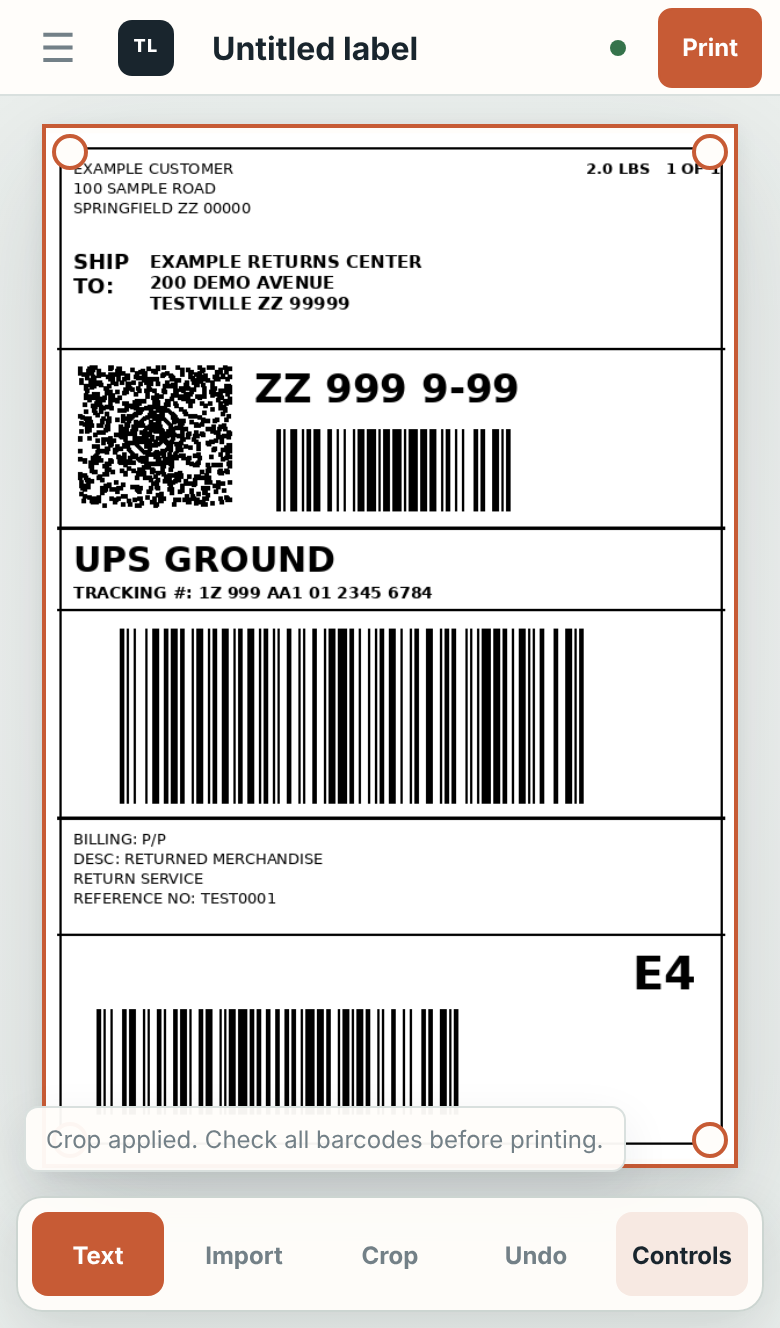
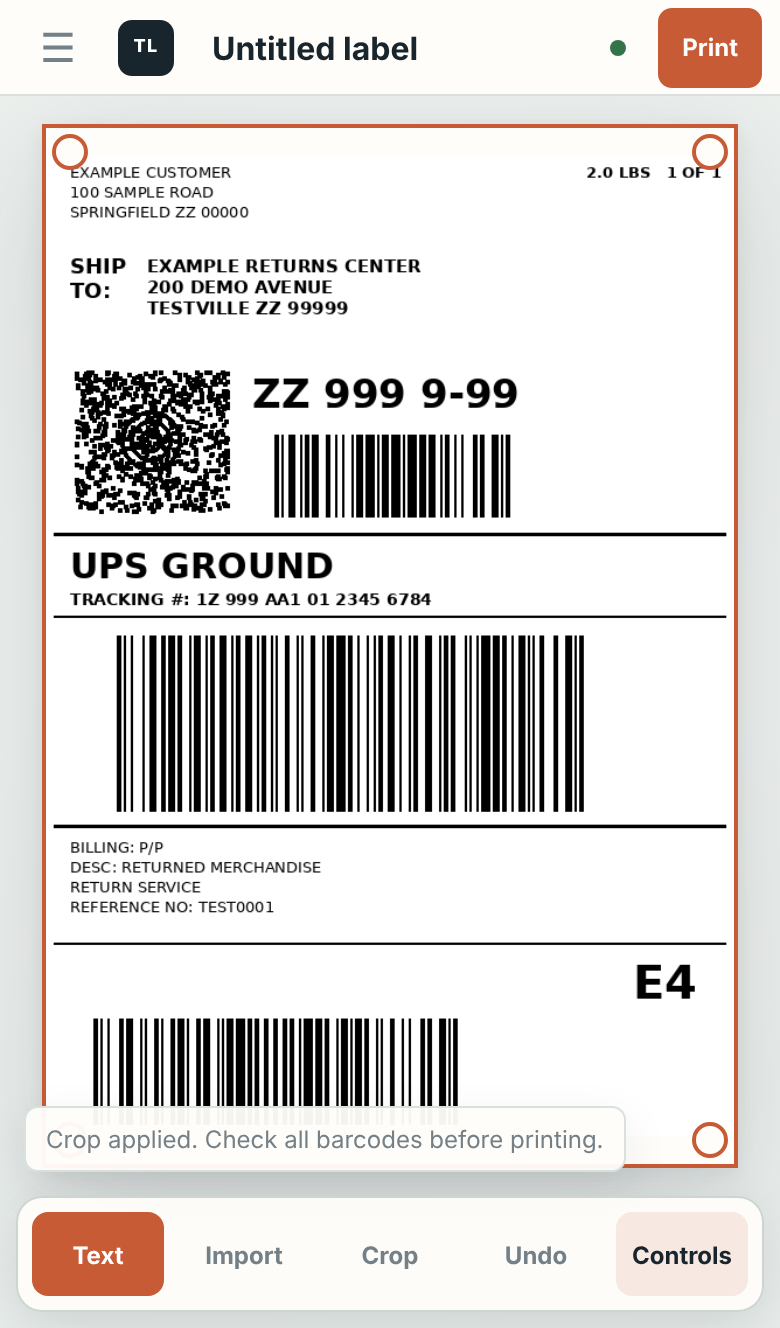
Keep everything inside a dashed cut box, address block included
On a real Amazon return page the label's address block sits apart from
its bar codes in white space, so growing from the bar codes dropped it.
When cut lines fence the label above and below, the label is now all the
ink inside the cut box. Dashed columns are measured within the label's
band, since a cut box's sides are shorter than half the page, and cut
lines plus their soft edges are left out of the crop. The synthetic page
now matches that layout: gray dashes on four sides, no outer border.

Claude-Session: https://claude.ai/code/session_014QzqeFLQdzRTgwbf3G2Hwv

Changed region(s): [[0.0615, 0.1235, 0.9538, 0.8336], [0.8, 0.7101, 0.8923, 0.7718], [0.7385, 0.1235, 0.8308, 0.1544]]

diff --git a/apps/web/src/lib/labelCrop.ts b/apps/web/src/lib/labelCrop.ts
@@ -29,10 +29,12 @@ const INK = 160;
  *
  * Shipping labels are the part of a page that holds bar codes, so the search
  * starts from the bar codes a decoder found. Return pages often fence the label
- * with dashed cut lines; those split the page into regions and the label is the
- * region holding the most bar code area. Inside that region the label is the
- * connected block of ink around the bar codes, which skips white margins and
- * text that sits apart from it. The decoder reports which way each bar code
+ * with a dashed cut box: dashed rows split the page into bands, the label's band
+ * is the one holding the most bar code area, and dashed columns inside that band
+ * close the box. A label fenced by cut lines is everything inside them, because
+ * its address block can sit apart from the bar codes in white space. Without cut
+ * lines the label is the connected block of ink around the bar codes, which
+ * skips white margins and text that sits apart from it. The decoder reports which way each bar code
  * reads, and a label's bar codes read the same way as its text, so a weighted
  * vote gives the turn. Without that, a landscape box on a portrait 4x6 label
  * is most likely a quarter turn.
@@ -41,10 +43,18 @@ export function locateShippingLabel(gray: Uint8Array, width: number, height: num
   const linear = hits.filter(hit => hit.linear && hit.box.right > hit.box.left && hit.box.bottom > hit.box.top);
   if (!linear.length || width < 8 || height < 8) return null;
   const rows = findDashedLines(gray, width, height, "rows");
-  const columns = findDashedLines(gray, width, height, "columns");
-  const region = bestRegion(splits(rows, height), splits(columns, width), linear);
+  const band = bestRegion(splits(rows, height), [[0, width]], linear);
+  // Cut boxes have short sides, so dashed columns are measured within the band.
+  const columns = findDashedLines(gray, width, height, "columns", band);
+  const region = bestRegion([[band.top, band.bottom]], splits(columns, width), linear);
   const anchors = linear.filter(hit => inside(center(hit.box), region));
-  const block = inkBlock(gray, width, height, region, anchors, new Set(rows), new Set(columns));
+  // Cut lines are left out of the label, with a couple of pixels either side for their soft edges.
+  const widen = (lines: number[]) => new Set(lines.flatMap(line => [line - 2, line - 1, line, line + 1, line + 2]));
+  const skipRows = widen(rows), skipColumns = widen(columns);
+  const fenced = region.top > 0 && region.bottom < height;
+  const block = fenced
+    ? inkBounds(gray, width, cutSpan(gray, width, region), skipRows, skipColumns) ?? inkBlock(gray, width, height, region, anchors, skipRows, skipColumns)
+    : inkBlock(gray, width, height, region, anchors, skipRows, skipColumns);
   const margin = Math.max(2, Math.round(Math.max(width, height) * .006));
   const box = {
     left: Math.max(region.left, block.left - margin), top: Math.max(region.top, block.top - margin),
@@ -61,15 +71,20 @@ export function locateShippingLabel(gray: Uint8Array, width: number, height: num
 }
 
 /**
- * Rows (or columns) that form a thin dashed line across most of the page.
- * Text lines also break into many short runs, so a dashed line must also be
- * thin, with clear space on both sides, and its dashes must be short and even.
+ * Rows (or columns) that form a thin dashed line across most of the area
+ * (the whole page unless given). Text lines also break into many short runs,
+ * so a dashed line must also be thin, with clear space on both sides, and its
+ * dashes and gaps must be short and even. Returns page coordinates.
  */
-export function findDashedLines(gray: Uint8Array, width: number, height: number, axis: "rows" | "columns"): number[] {
-  const length = axis === "rows" ? width : height;
-  const count = axis === "rows" ? height : width;
-  const at = axis === "rows" ? (line: number, index: number) => gray[line * width + index]
-    : (line: number, index: number) => gray[index * width + line];
+export function findDashedLines(gray: Uint8Array, width: number, height: number, axis: "rows" | "columns",
+  area: PixelBox = { left: 0, top: 0, right: width, bottom: height }): number[] {
+  const rowsAxis = axis === "rows";
+  const length = rowsAxis ? area.right - area.left : area.bottom - area.top;
+  const count = rowsAxis ? area.bottom - area.top : area.right - area.left;
+  const offset = rowsAxis ? area.top : area.left;
+  if (length < 1 || count < 1) return [];
+  const at = rowsAxis ? (line: number, index: number) => gray[(area.top + line) * width + area.left + index]
+    : (line: number, index: number) => gray[(area.top + index) * width + area.left + line];
   const ink = new Int32Array(count);
   const dashed = new Uint8Array(count);
   for (let line = 0; line < count; line += 1) {
@@ -105,7 +120,7 @@ export function findDashedLines(gray: Uint8Array, width: number, height: number,
     const peak = Math.max(...ink.subarray(start, end + 1));
     const quiet = (line: number) => line < 0 || line >= count || ink[line] < peak * .2;
     if (end - start + 1 <= thin && quiet(before) && quiet(after)) {
-      for (let line = start; line <= end; line += 1) lines.push(line);
+      for (let line = start; line <= end; line += 1) lines.push(offset + line);
     }
     start = end + 1;
   }
@@ -139,6 +154,33 @@ function bestRegion(rows: Array<[number, number]>, columns: Array<[number, numbe
     if (area > bestArea) { best = region; bestArea = area; }
   }
   return best;
+}
+
+/** The left and right ends of the dashed rows just above and below a fenced region, as the area to search. */
+function cutSpan(gray: Uint8Array, width: number, region: PixelBox): PixelBox {
+  let left = region.right, right = region.left;
+  for (const y of [region.top - 1, region.bottom]) {
+    for (let x = region.left; x < region.right; x += 1) {
+      if (gray[y * width + x] < INK) { left = Math.min(left, x); right = Math.max(right, x + 1); }
+    }
+  }
+  return right > left ? { ...region, left, right } : region;
+}
+
+/** The bounding box of all ink in an area, leaving out cut lines. */
+function inkBounds(gray: Uint8Array, width: number, area: PixelBox, skipRows: Set<number>, skipColumns: Set<number>): PixelBox | null {
+  let left = area.right, right = area.left, top = area.bottom, bottom = area.top;
+  for (let y = area.top; y < area.bottom; y += 1) {
+    if (skipRows.has(y)) continue;
+    for (let x = area.left; x < area.right; x += 1) {
+      if (skipColumns.has(x) || gray[y * width + x] >= INK) continue;
+      if (x < left) left = x;
+      if (x >= right) right = x + 1;
+      if (y < top) top = y;
+      bottom = y + 1;
+    }
+  }
+  return right > left ? { left, top, right, bottom } : null;
 }
 
 /**

diff --git a/e2e/label-find.spec.ts b/e2e/label-find.spec.ts
@@ -47,10 +47,11 @@ test('Find label or QR boxes a sideways shipping label, stands it upright and pr
     .toContainText('with 3 bar codes. Turned it 90° so it reads upright.');
   await expect(page.getByRole('button', { name: 'Rotate label, now 90°' })).toBeVisible();
   await page.getByText('Fine-tune with numbers', { exact: true }).click();
-  // The label sits at x 180-1044, y 438-1014 of the 1224 x 1584 page; the box adds a thin margin.
+  // The label's ink sits at about x 195-1017, y 438-1014 of the 1224 x 1584 page, inside the dashed cut box;
+  // the address block on the left stands apart from the bar codes and must be kept. The box adds a thin margin.
   const value = async (name: string) => Number(await page.getByLabel(name, { exact: true }).inputValue());
-  expect(await value('Left (%)')).toBeGreaterThan(13); expect(await value('Left (%)')).toBeLessThan(14.8);
-  expect(await value('Width (%)')).toBeGreaterThan(70.5); expect(await value('Width (%)')).toBeLessThan(73.5);
+  expect(await value('Left (%)')).toBeGreaterThan(14.5); expect(await value('Left (%)')).toBeLessThan(16);
+  expect(await value('Width (%)')).toBeGreaterThan(67.5); expect(await value('Width (%)')).toBeLessThan(70.5);
   expect(await value('Top (%)')).toBeGreaterThan(26.5); expect(await value('Top (%)')).toBeLessThan(27.7);
   expect(await value('Height (%)')).toBeGreaterThan(36.3); expect(await value('Height (%)')).toBeLessThan(38.5);
   await page.getByRole('button', { name: 'Use crop', exact: true }).click();

diff --git a/apps/web/src/lib/labelCrop.test.ts b/apps/web/src/lib/labelCrop.test.ts
@@ -36,6 +36,19 @@ describe("shipping label crop", () => {
     [100 - margin, 130 - margin, 500 + margin, 370 + margin].forEach((expected, index) => expect(Math.abs(edges[index] - expected)).toBeLessThanOrEqual(2));
   });
 
+  it("keeps everything inside a dashed cut box, even an address block apart from the bar codes", () => {
+    const { gray, fill, dashes } = page();
+    const side = (x: number) => { for (let y = 101; y < 400; y += 12) fill(x, y, x + 1, y + 6); };
+    dashes(100); dashes(400); side(40); side(W - 41);
+    fill(70, 150, 90, 350); // address lines, far from the bar codes
+    fill(300, 160, 380, 340); fill(420, 160, 460, 340); // bar codes
+    const found = locateShippingLabel(gray, W, H, [bar(300, 160, 380, 340), bar(420, 160, 460, 340)])!;
+    const margin = Math.round(H * .006);
+    expect(found.crop.x * W).toBeCloseTo(70 - margin, 0);
+    expect((found.crop.x + found.crop.width) * W).toBeCloseTo(460 + margin, 0);
+    expect(found.crop.y * H).toBeCloseTo(150 - margin, 0);
+  });
+
   it("finds dashed cut lines but not lines of text", () => {
     const { gray, dashes, text } = page();
     text(30); dashes(100); text(200);

diff --git a/e2e/fixtures/make_return_page.py b/e2e/fixtures/make_return_page.py
@@ -29,12 +29,11 @@ def code128(data, module_px, height_px):
 label = Image.new("L", (4 * DPI, 6 * DPI), 255)
 d = ImageDraw.Draw(label)
 W, H = label.size
-d.rectangle([2, 2, W - 3, H - 3], outline=0, width=2)
+# Like Amazon's UPS return labels: no outer border, and the address block stands apart in white space.
 d.text((14, 12), "EXAMPLE CUSTOMER\n100 SAMPLE ROAD\nSPRINGFIELD ZZ 00000", font=font(13), fill=0)
 d.text((W - 120, 12), "2.0 LBS   1 OF 1", font=bold(13), fill=0)
 d.text((14, 90), "SHIP\nTO:", font=bold(18), fill=0)
 d.text((80, 92), "EXAMPLE RETURNS CENTER\n200 DEMO AVENUE\nTESTVILLE ZZ 99999", font=bold(15), fill=0)
-d.line([0, 175, W, 175], fill=0, width=2)
 # Fake MaxiCode: random dots around a bullseye.
 mx, my = 18, 190
 for _ in range(900):
@@ -75,14 +74,20 @@ for line in ["Make sure no other tracking labels are on your package.",
 y += 14
 p.text((72, y), "Return Mailing Label", font=bold(17), fill=0); y += 28
 p.text((72, y), "Cut this label and affix to the outside of the return package", font=font(15), fill=0); y += 34
+# The cut box is gray (128) dashes, about 2 px thick, on all four sides.
 def dashed(yy):
-    for x in range(72, PW - 72, 12):
-        p.line([x, yy, x + 6, yy], fill=0, width=1)
+    for x in range(56, PW - 56, 15):
+        p.line([x, yy, x + 9, yy + 1], fill=128, width=2)
+def dashed_side(xx, y0, y1):
+    for yy in range(y0, y1, 15):
+        p.line([xx, yy, xx, min(y1, yy + 9)], fill=128, width=2)
 dashed(y); top = y
 turned = label.rotate(90, expand=True, fillcolor=255)   # reads bottom to top
 page.paste(turned, ((PW - turned.width) // 2, top + 14))
 y = top + 14 + turned.height + 14
-dashed(y); y += 24
+dashed(y)
+dashed_side(56, top, y); dashed_side(PW - 58, top, y)
+y += 24
 p.text((72, y), "Return Authorization Slip", font=bold(17), fill=0); y += 30
 p.text((72, y), "Place this barcode and item description inside your return package.", font=font(15), fill=0); y += 34
 page.paste(code128("RMA0001TEST", 2, 60), (72, y)); y += 80
